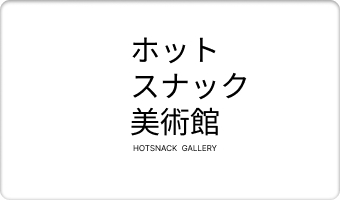
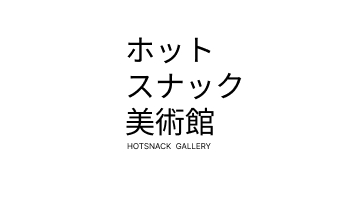
add:額縁の反映

diff --git a/app/javascript/pages/HotsnackDetail.vue b/app/javascript/pages/HotsnackDetail.vue
@@ -1,6 +1,56 @@
 <template>
     <base-container>
-        <p>すみません、、、実装してません</p>
+        <v-card class="mx-auto" max-width="375" color="#f6f5ee" outlined>
+            <v-card-title> 評価額 ￥6413 </v-card-title>
+
+            <v-divider></v-divider>
+
+            <v-card class="ma-10">
+                <v-container class="outline">
+                    <v-container class="inline">
+                        <v-container class="baseline">
+                            <v-container class="border">
+                                <v-img
+                                    src="https://img.7api-01.dp1.sej.co.jp/item-image/150144/6BF2807FE0D76A82D9C79EB2499ED535.jpg"
+                                />
+                            </v-container>
+                        </v-container>
+                    </v-container>
+                </v-container>
+            </v-card>
+
+            <v-card-title>アメリカンドッグ</v-card-title>
+
+            <v-card-subtitle>121円（税込130.68円）</v-card-subtitle>
+
+            <v-card-title>セブン-イレブン</v-card-title>
+
+            <v-card-subtitle>1974年 - 現在</v-card-subtitle>
+
+            <v-card-actions>
+                <v-btn text>詳細説明</v-btn>
+
+                <v-btn icon class="ml-0">
+                    <v-icon>{{ 'mdi-volume-high' }}</v-icon>
+                </v-btn>
+
+                <v-spacer></v-spacer>
+
+                <v-btn icon @click="show = !show">
+                    <v-icon>{{ show ? 'mdi-chevron-up' : 'mdi-chevron-down' }}</v-icon>
+                </v-btn>
+            </v-card-actions>
+
+            <v-expand-transition>
+                <div v-show="show">
+                    <v-divider></v-divider>
+
+                    <v-card-text>
+                        原材料の高騰により、価格を１００円（税抜）から１２１円（税抜）に変更いたします。サクっとした食感とほんのり甘い風味が特長のアメリカンドッグです。
+                    </v-card-text>
+                </div>
+            </v-expand-transition>
+        </v-card>
     </base-container>
 </template>
 
@@ -13,7 +63,52 @@ export default {
         BaseContainer,
     },
     data() {
-        return {}
+        return {
+            show: true,
+        }
     },
 }
 </script>
+
+<style scoped>
+.border {
+    background: #fff;
+    display: block;
+    width: 88%;
+    height: auto;
+    padding: 6%;
+    box-shadow: inset 0px 0.3em 0.1em rgba(0, 0, 0, 0.2);
+}
+
+.baseline {
+    display: block;
+}
+
+.inline {
+    background-color: #f8f8f8;
+    z-index: -1;
+    box-shadow: inset 0px 10px 0.5em rgba(0, 0, 0, 0.25), inset 0.1em 0px 0.1em rgba(0, 0, 0, 0.1),
+        inset -0.1em 0px 0.1em rgba(0, 0, 0, 0.05), 0 0.3em 0.2em #fff;
+    background-image: -moz-radial-gradient(50% 50%, circle farthest-corner, #ffffff, #f8f8f8 100%);
+    background-image: -webkit-radial-gradient(50% 50%, circle farthest-corner, #ffffff, #f8f8f8 100%);
+    background-image: -o-radial-gradient(50% 50%, circle farthest-corner, #ffffff, #f8f8f8 100%);
+    background-image: -ms-radial-gradient(50% 50%, circle farthest-corner, #ffffff, #f8f8f8 100%);
+    background-image: radial-gradient(50% 50%, circle farthest-corner, #ffffff, #f8f8f8 100%);
+}
+
+.outline {
+    width: 100%;
+    height: 100%;
+    background: #f8f8f8;
+    z-index: -2;
+    box-shadow: 0px 1em 2em -1em rgba(0, 0, 0, 0.4), 0px 2em 2em -1em rgba(0, 0, 0, 0.03),
+        0px 3em 2em -1em rgba(0, 0, 0, 0.2), 0px 4em 1.5em -1em rgba(0, 0, 0, 0.15),
+        0px 2em 4em 0.5em rgba(0, 0, 0, 0.1), inset 0 0.2em 0.1em #fff;
+}
+
+#bunny {
+    width: 150px;
+    border: 1px solid #b76e22;
+    border-radius: 4px;
+}
+</style>

diff --git a/app/javascript/pages/Top.vue b/app/javascript/pages/Top.vue
@@ -9,14 +9,16 @@
                 そんな事態を解決するサービス
             </div>
         </v-row>
+        <hr />
         <v-col align="center">
             <v-img max-width="340" height="200" class="" src="/img/TOP_TITLE.jpg" />
         </v-col>
+        <hr />
         <v-col align="center">
-            <p class="s-font">
+            <p class="s-font mb-2">
                 美術館に来館して
                 <br />
-                ＼ホットスナックを鑑賞しよう／
+                ＼展示作品を鑑賞しよう／
             </p>
             <v-btn color="black" class="white--text" rounded large style="text-transform: none">
                 <v-icon>mdi-bank</v-icon>
@@ -24,32 +26,32 @@
             </v-btn>
             <p class="xs-font mt-2">※下の利用規約・プライバシーポリシーをご確認ください。</p>
         </v-col>
-        <v-divider />
+        <hr />
         <v-col align="center" class="mb-4">
             <v-card-title class="pa-1 pb-3 nowrap">
-                <v-icon color="blue">mdi-help-box</v-icon>
-                <span class="s-font">ホットスナック美術館の使い方</span>
+                <v-icon>mdi-help-circle</v-icon>
+                <span class="s-font ml-1">ホットスナック美術館の使い方</span>
             </v-card-title>
             <v-card>
-                <v-carousel cycle :continuous="true" height="100%">
+                <v-carousel cycle :continuous="true" height="100%" light>
                     <v-carousel-item v-for="(rule_image, i) in rule_images" :key="i">
                         <img :src="rule_image" width="100%" height="100%" eager />
                     </v-carousel-item>
                 </v-carousel>
             </v-card>
         </v-col>
-        <v-divider />
+        <hr />
         <v-row justify="center" class="my-8">
-            <v-card rounded="xl" color="transparent">
+            <v-card rounded="xl" color="transparent" outlined>
                 <v-col align="center" class="m-font"> このアプリの対象者 </v-col>
-                <v-col class="p-font nowrap" align="left">
+                <v-col class="s-font nowrap" align="left">
                     <p>コンビニでホットスナックを選んでいる時に、、、</p>
                 </v-col>
                 <v-col class="p-font nowrap" align="center">
                     <p>店員の視線が気になる人。</p>
                     <p>他の客の邪魔になっていると感じる人。</p>
                 </v-col>
-                <v-col class="p-font nowrap" align="left">
+                <v-col class="s-font nowrap" align="left">
                     <p>ホットスナックを選ぼうとレジ横に向かったら、、、</p>
                 </v-col>
                 <v-col class="p-font nowrap" align="center">
@@ -57,7 +59,7 @@
                 </v-col>
             </v-card>
         </v-row>
-        <v-divider />
+        <hr />
         <v-card color="transparent" outlined>
             <v-card-actions class="justify-center my-2">
                 <v-btn dense text @click="openModal('terms')"> 利用規約 </v-btn>
@@ -113,6 +115,16 @@ export default {
 </script>
 
 <style scoped>
+hr {
+    border: none;
+    height: 20px;
+    width: 90%;
+    height: 50px;
+    margin-top: 0;
+    border-bottom: 1px solid #1f1209;
+    box-shadow: 0 20px 20px -20px #333;
+    margin: -50px auto 10px;
+}
 .p-font {
     font-size: 0.7em;
     color: #2c281e;

diff --git a/app/javascript/components/shared/TheHeader.vue b/app/javascript/components/shared/TheHeader.vue
@@ -5,7 +5,7 @@
                 <v-toolbar-title>HOTSNACK GALLERY</v-toolbar-title>
                 <v-spacer />
                 <v-btn icon>
-                    <v-icon color="blue">mdi-help-box</v-icon>
+                    <v-icon>mdi-help-circle</v-icon>
                 </v-btn>
             </v-toolbar>
         </v-card>

diff --git a/config/webpack/loaders/vue.js b/config/webpack/loaders/vue.js
@@ -1,7 +1,9 @@
 // WebpackerがVueファイルを認識するための設定
 module.exports = {
-  test: /\.vue(\.erb)?$/,
-  use: [{
-    loader: 'vue-loader'
-  }]
+    test: /\.vue(\.erb)?$/,
+    use: [
+        {
+            loader: 'vue-loader',
+        },
+    ],
 }

diff --git a/app/javascript/app.vue b/app/javascript/app.vue
@@ -13,3 +13,12 @@ export default {
     },
 }
 </script>
+
+<style scoped>
+#app {
+    --background-color: #f6f5ee;
+    background-color: var(--background-color);
+    font-weight: bold;
+    color: #2e1f1f;
+}
+</style>
